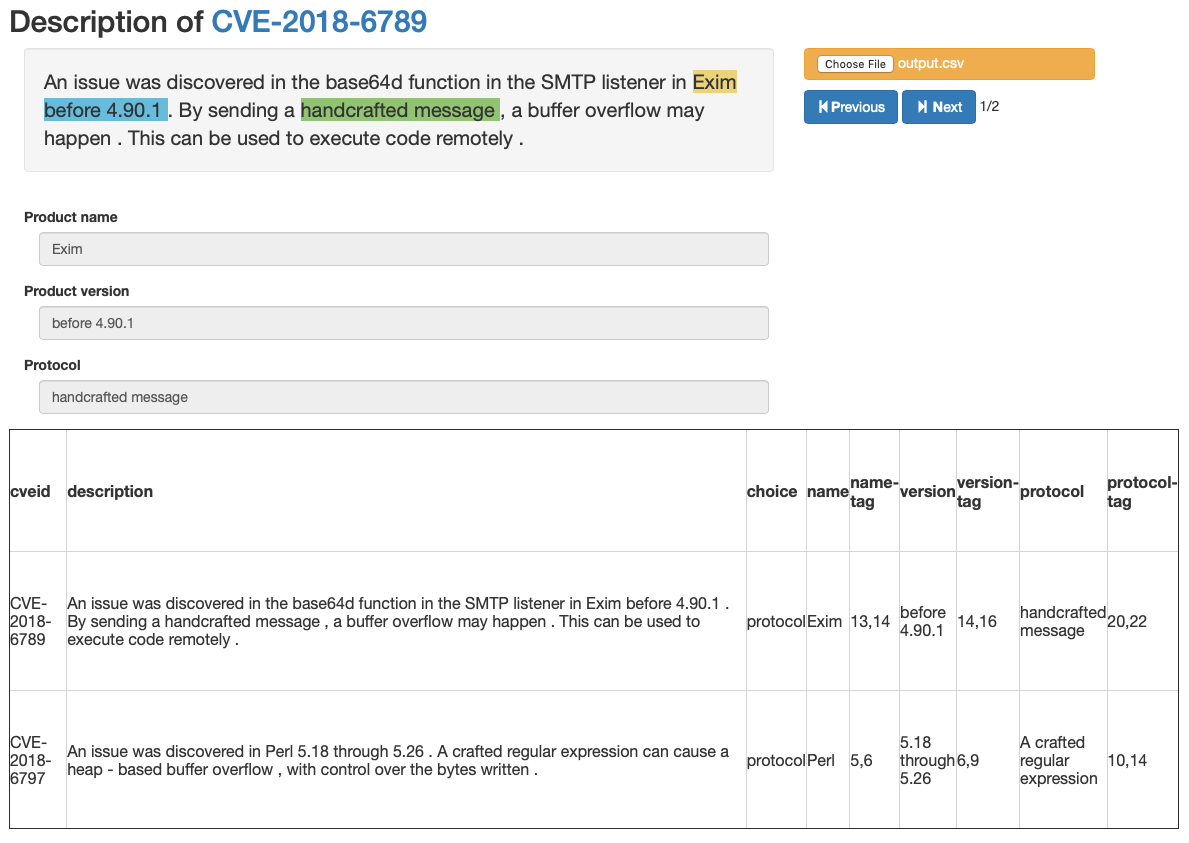
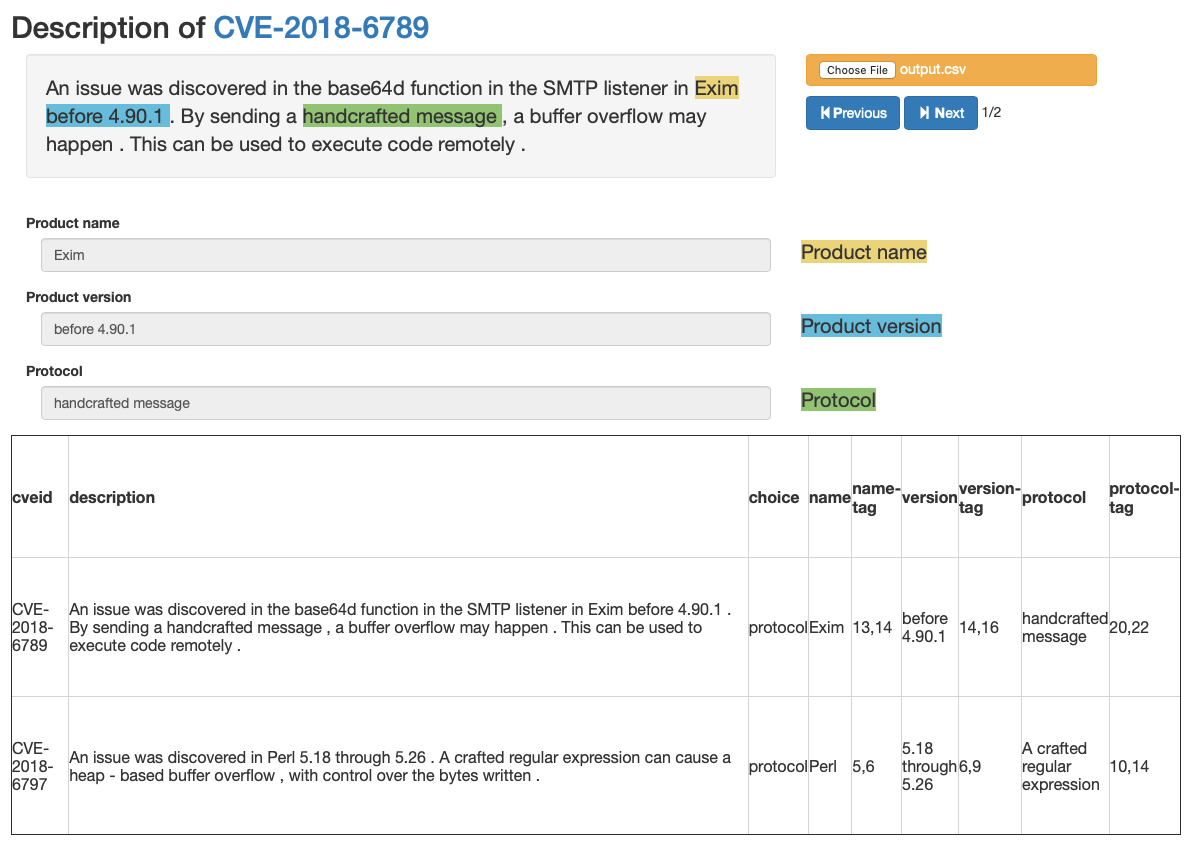
Add label

diff --git a/visualize.html b/visualize.html
@@ -27,6 +27,7 @@
                 </button>
             <span id="cur"></span>
             </div>
+            <p></p>
         </div>
 
     </div>
@@ -43,6 +44,9 @@
                 <div class="col-sm-8">
                     <input type="text" class="form-control" id="name" disabled=disabled />
                 </div>
+                <div class="ann col-sm-4">
+                    <strong class="annotation-name">Product name</strong>
+                </div>
             </div>
         </div>
         <div class="col-xs-12 col-sm-12 content">
@@ -51,6 +55,9 @@
                 <div class="col-sm-8">
                     <input type="text" class="form-control" id="version" disabled=disabled />
                 </div>
+                <div class="ann col-sm-4">
+                    <strong class="annotation-version">Product version</strong>
+                </div>
             </div>
         </div>
         <div class="col-xs-12 col-sm-12 content">
@@ -58,6 +65,9 @@
             <div class="form-row">
                 <div class="col-sm-8">
                     <input type="text" class="form-control" id="protocol" disabled=disabled />
+                </div>
+                <div class="ann col-sm-4">
+                    <strong class="annotation-protocol">Protocol</strong>
                 </div>
             </div>
         </div>
